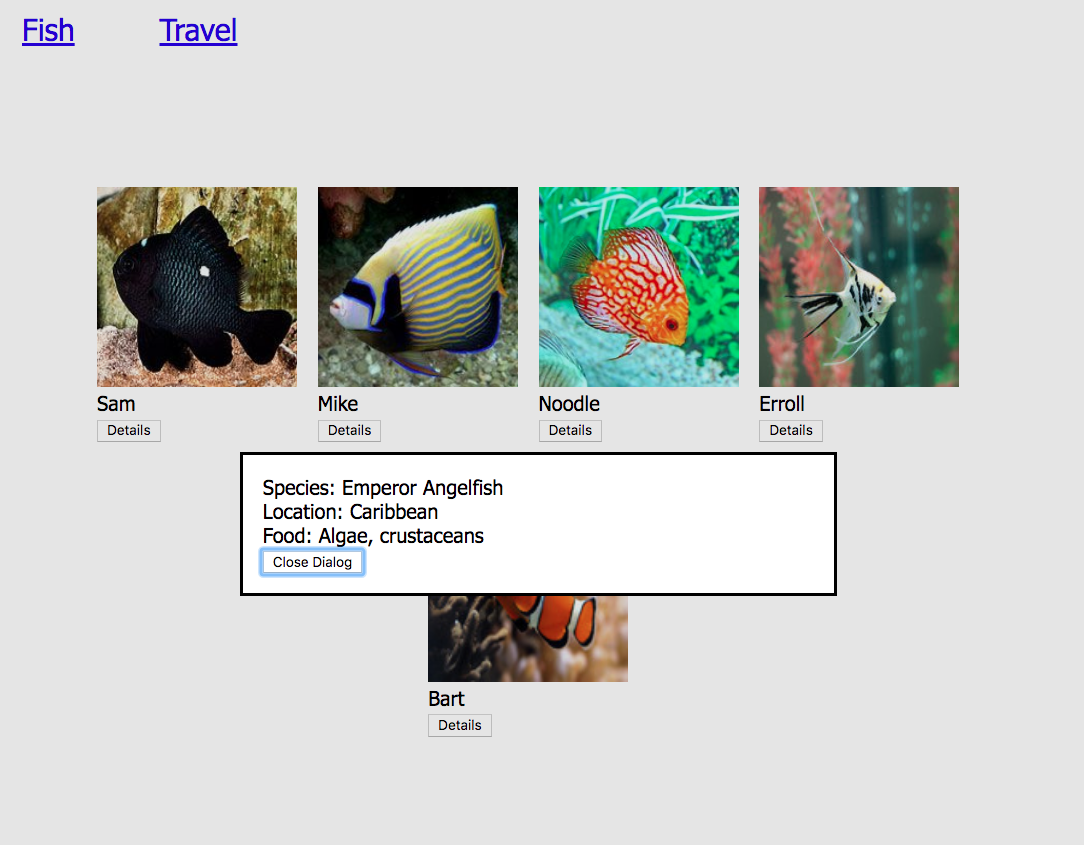
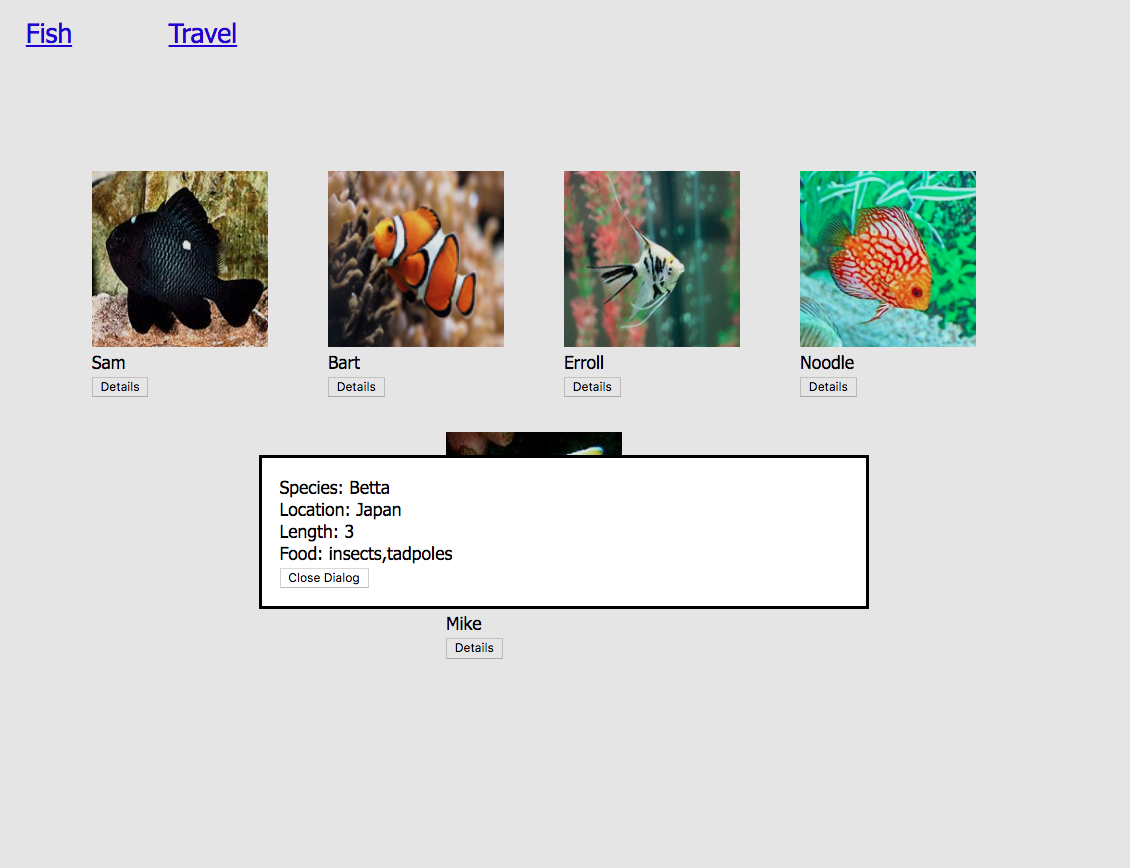
Practicing arguments

Changed region(s): [[0.0609, 0.1846, 0.8828, 0.8615], [0.0, 0.0, 0.0913, 0.0615], [0.1522, 0.0, 0.2131, 0.0615]]

diff --git a/book-1-the-novice/chapters/CREATING_FISH_COMPONENTS.md b/book-1-the-novice/chapters/CREATING_FISH_COMPONENTS.md
@@ -34,7 +34,7 @@ Since each of these components have a different responsibility, then each one mu
 > **`scripts/Fish.js`**
 
 ```js
-/*
+/**
  *  FishComponent which renders individual fish objects as HTML
  */
 const FishComponent = fish => {
@@ -49,6 +49,7 @@ const FishComponent = fish => {
             <dialog class="dialog--fish" id="details--bart">
                 <div>Species: ${fish.species}</div>
                 <div>Location: ${fish.location}</div>
+                <div>Length: ${fish.size}</div>
                 <div>Food: ${fish.food.join(",")}</div>
 
                 <button class="button--close" id="close-bart">Close Dialog</button>
@@ -66,7 +67,7 @@ export default FishComponent
 > **`scripts/FishList.js`**
 
 ```js
-/*
+/**
  *  FishListComponent which renders individual fish objects as HTML
  */
 import { useFish } from "./FishDataProvider.js"
@@ -161,3 +162,46 @@ We have also learned that some people like a visualization of how all the pieces
 
 ![dynamically rendered fish components](./images/fish-component-flow.png)
 
+## Practice: Argumentative
+
+Understanding how arguments and parameters work with functions - especially when the functions are defined in a different module that where they are used - is something that is hard to understand. In this practice exercise, you are going to explore this concept.
+
+First, in the following line of code in the **`FishList`** module...
+
+```js
+fishHTMLRepresentations += FishComponent(fish)
+```
+
+Remove the fish argument that is being passed to the **`FishComponent`** component function.
+
+```js
+fishHTMLRepresentations += FishComponent()
+```
+
+Refresh your browser. Make sure your developer console is open and you will see the following exception.
+
+![no argument exception](./images/fish-component-no-argument.png)
+
+The exception tells you exactly where it occurred. Line 8 of the `Fish.js` module (_**Note:** your line number may be different if you have comments or different amounts of whitespace_). If you open that module and go the the line specified, you will see this.
+
+```js
+src="${fish.image}"
+```
+
+The key term is `'image' of undefined`. Whenever you see an exception like that, look to the left of the property being accessed. In this case, look to the left of `'image'`. You will see the variable `fish`. That's undefined.
+
+Why is it undefined? It's because you removed the argument that you were passing in when you invoked the function. This component function defines a parameter.
+
+```js
+const FishComponent = (fish) => {
+```
+
+Since you invoked this function without a corresponding argument...
+
+```js
+fishHTMLRepresentations += FishComponent()
+```
+
+Then the parameter never gets assigned a value to reference. Therefore, it's undefined, and you can't access an `.image` property of something that is undefined.
+
+Now put the argument back in when you invoke the component function and it should all work again.

diff --git a/book-1-the-novice/chapters/HTML_AQUARIUM.md b/book-1-the-novice/chapters/HTML_AQUARIUM.md
@@ -40,7 +40,7 @@ Let's build a couple HTML pages whose user will be an avid rare fish collector w
 >
 > Martin responds, "Right under the navigation bar, and before the list of locations."
 >
-> You note that in your journal, then ask, "Ok, I just want to make sure I get this right for you. The details of each fish should include the image, the species, what you named the fish, where you harvested it, and what it eats... is that all correct?"
+> You note that in your journal, then ask, "Ok, I just want to make sure I get this right for you. The details of each fish should include the image, the species, its length, what you named the fish, where you harvested it, and what it eats... is that all correct?"
 >
 > "That sure is," he says confidently and leans back in his chair with his arms behind his head.
 >

diff --git a/book-1-the-novice/chapters/BASIC_EVENTS.md b/book-1-the-novice/chapters/BASIC_EVENTS.md
@@ -50,6 +50,7 @@ First, each of your fish components needs to have a corresponding `<dialog>`
     <dialog class="dialog--fish" id="details--bart">
         <div>Species: Orange Clownfish</div>
         <div>Location: Caribbean</div>
+        <div>Length: 3</div>
         <div>Food: Algae, crustaceans</div>
 
         <button class="button--close" id="close-bart">Close Dialog</button>
